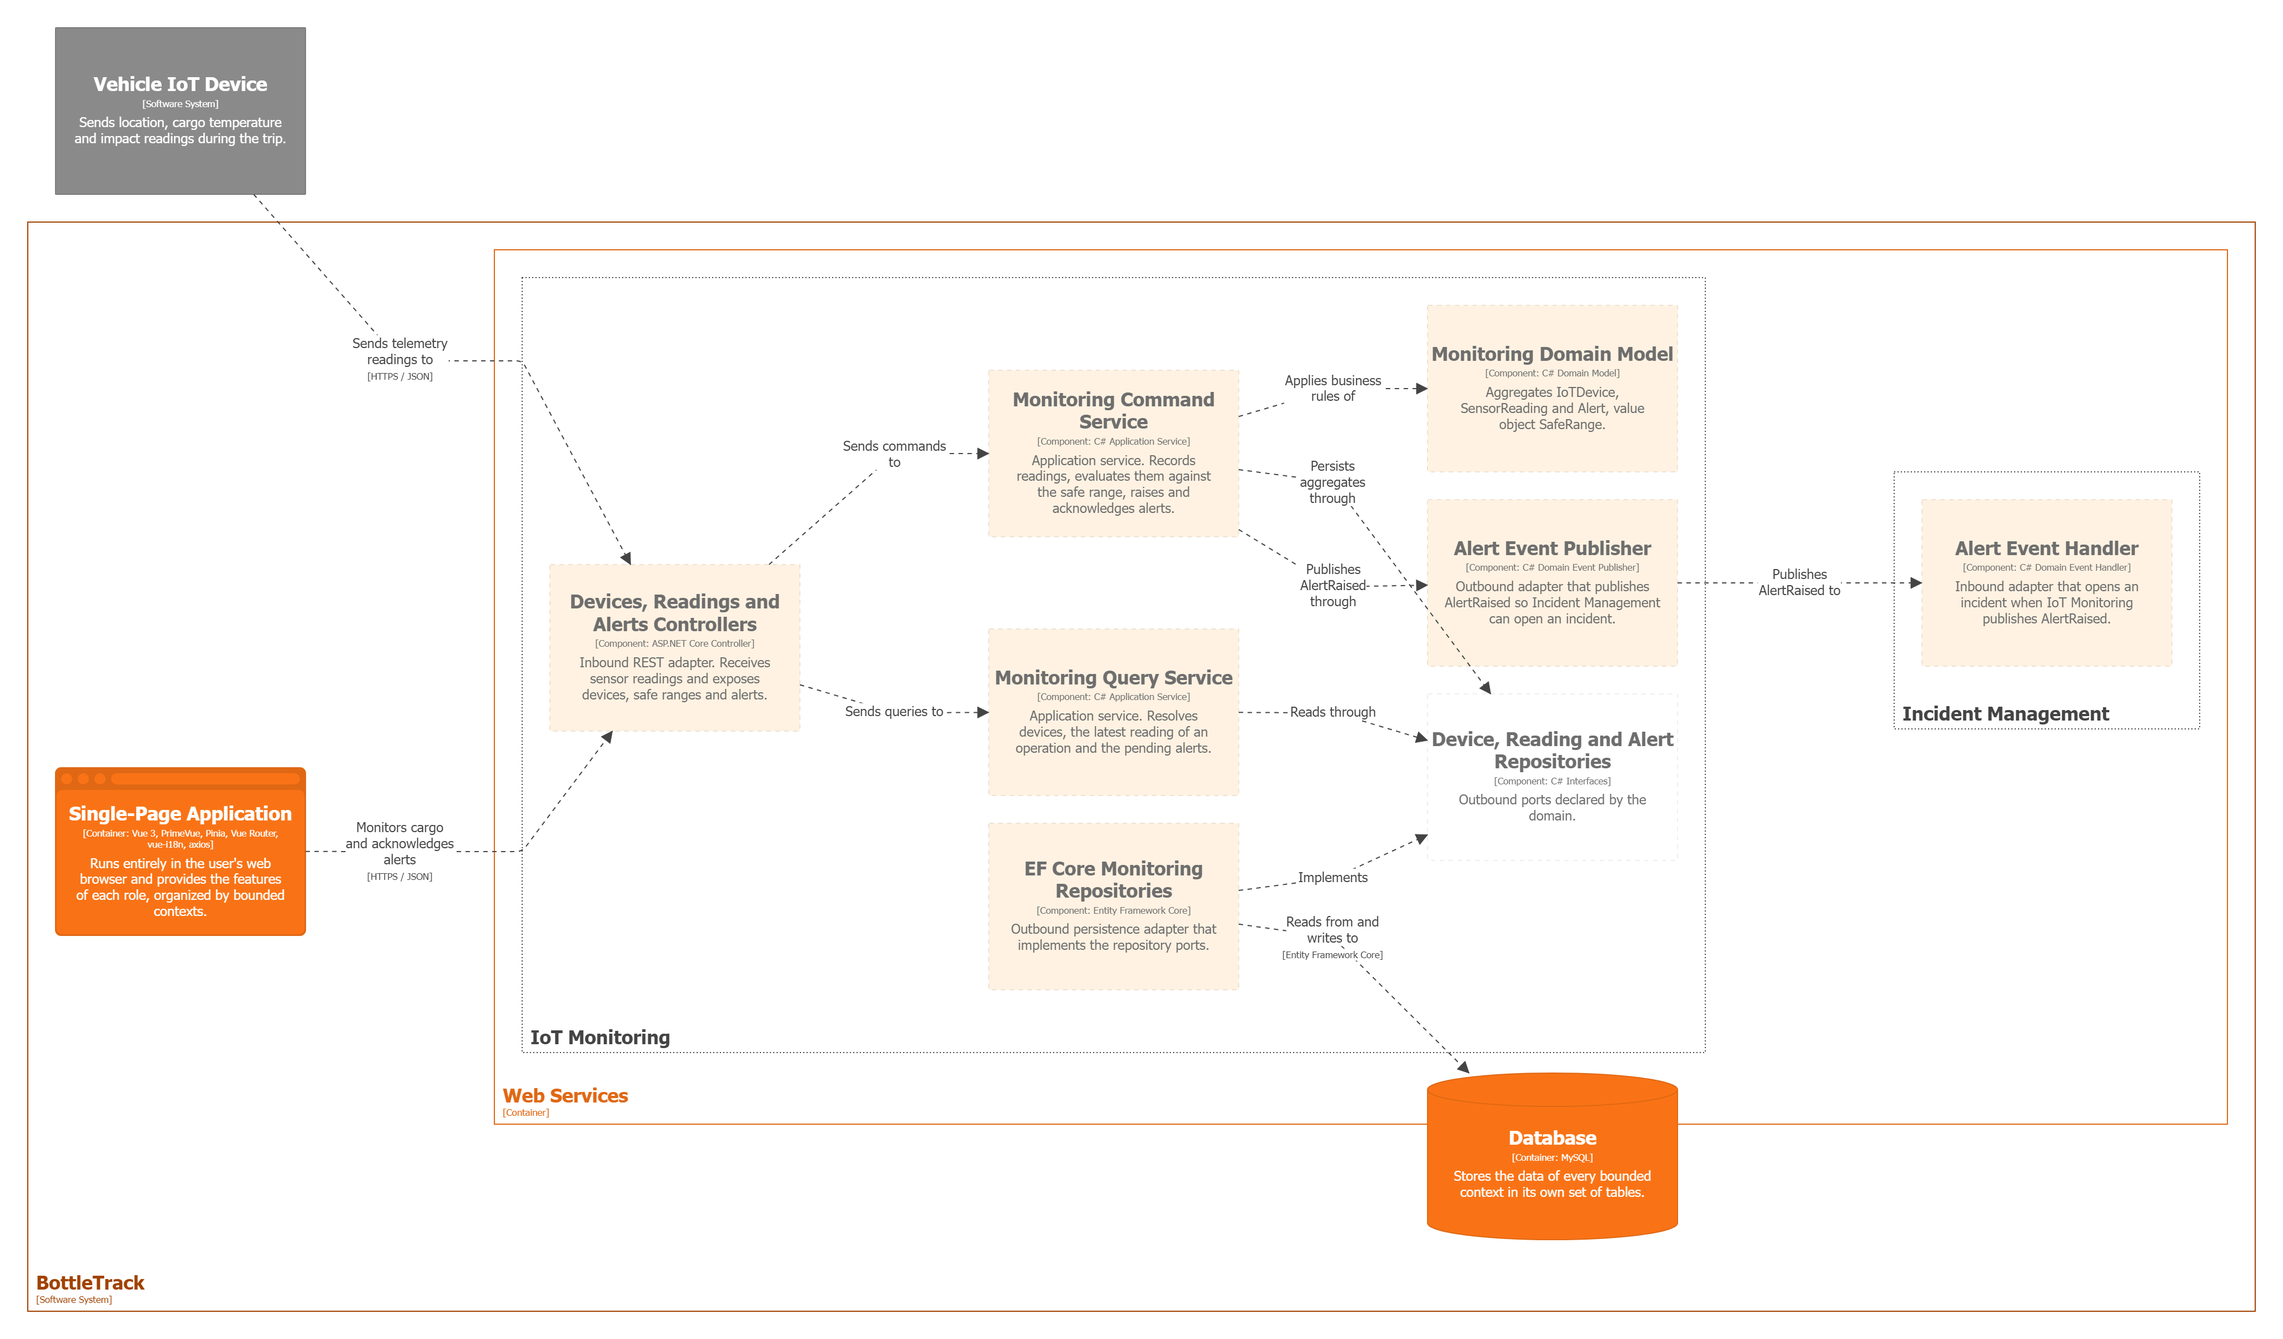
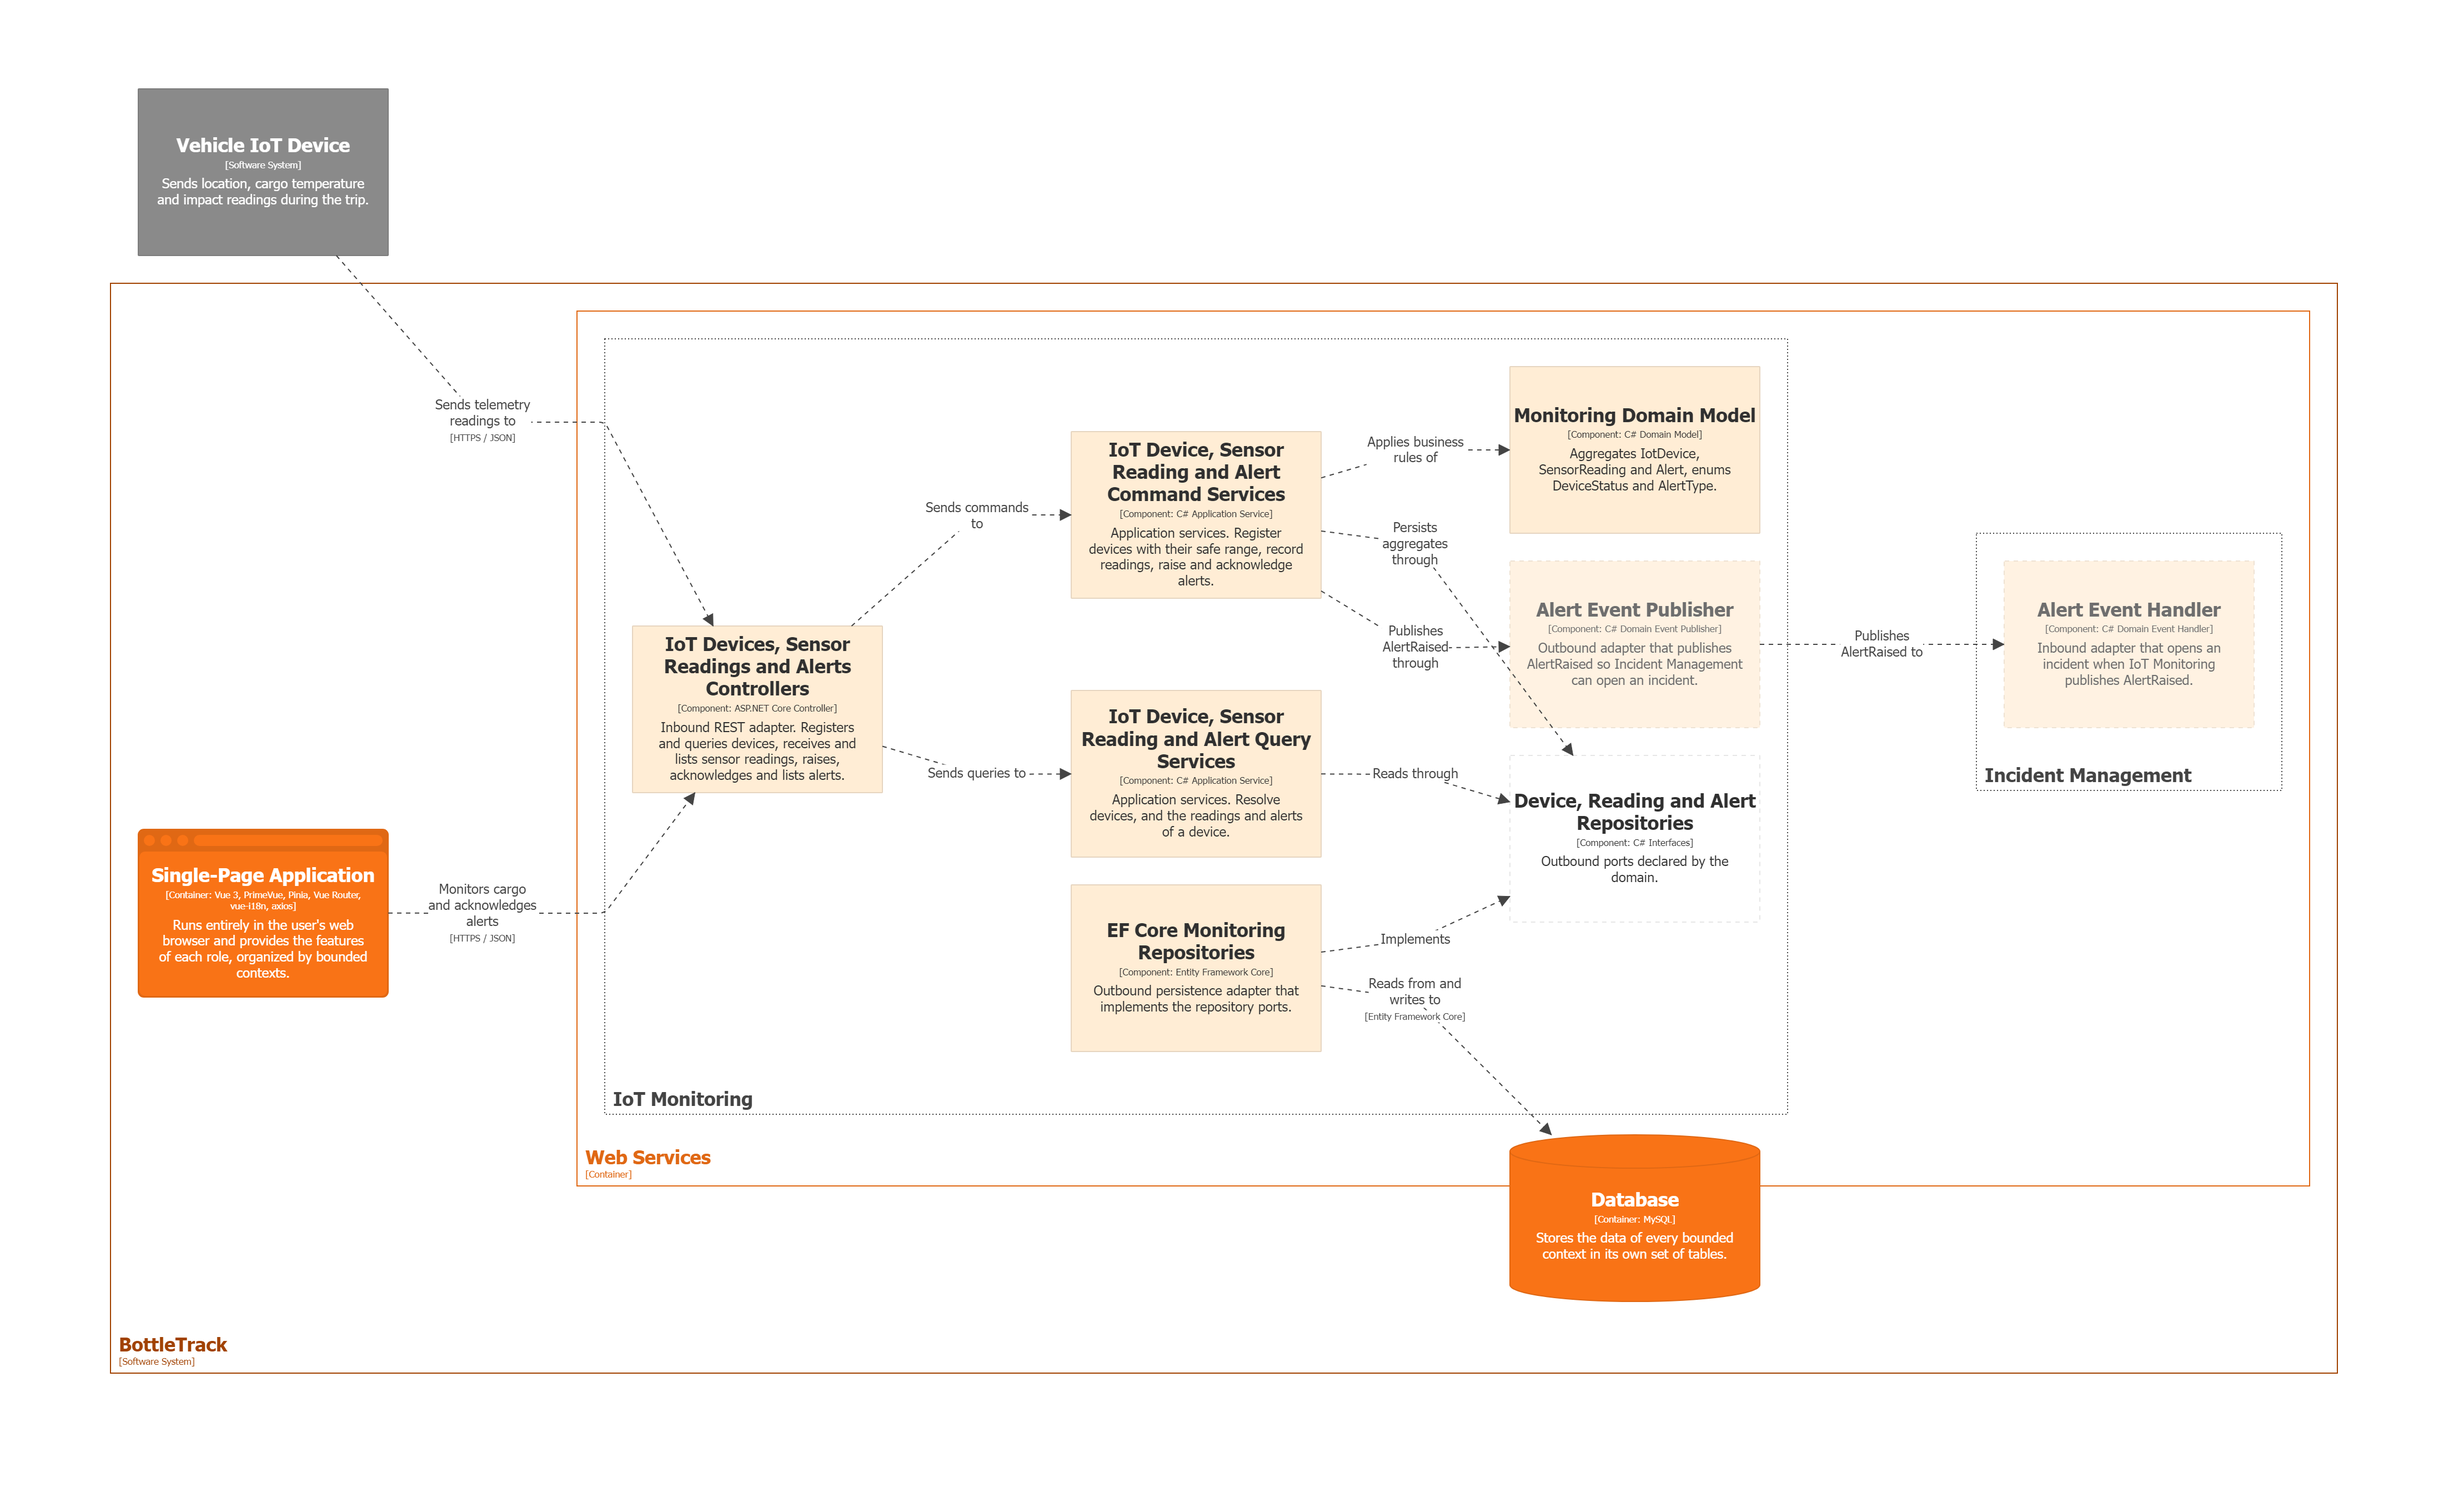
fix(report): align iot monitoring diagrams with the web services

diff --git a/report/40-chapter-4-product-design.md b/report/40-chapter-4-product-design.md
@@ -760,7 +760,7 @@ Se elaboró un diagrama de componentes por bounded context. Los componentes dibu
 
 <img src="assets/DD-SoftwareArchitecture/componentOR_D.png" alt="Diagrama de componentes de Operations and Routes" width="800">
 
-**IoT Monitoring.** Recibe las lecturas de los dispositivos, las evalúa contra el rango seguro y levanta alertas. Publica el evento `AlertRaised` para que Incident Management actúe.
+**IoT Monitoring.** Registra los dispositivos con su rango seguro de temperatura y su umbral de impacto, recibe sus lecturas y gestiona las alertas. Implementado: registro y consulta de dispositivos, registro y consulta de lecturas por dispositivo, y registro, consulta y atención de alertas. La evaluación automática de cada lectura contra el rango seguro y la publicación del evento `AlertRaised` hacia Incident Management están planificadas.
 
 <img src="assets/DD-SoftwareArchitecture/componentIoTM_D.png" alt="Diagrama de componentes de IoT Monitoring" width="800">
 
@@ -840,11 +840,11 @@ Planifica y ejecuta las operaciones de transporte: sus recursos, su ruta de entr
 
 Vigila la carga durante la operación con las lecturas de temperatura y golpes de los dispositivos IoT, y genera alertas cuando se sale del rango seguro.
 
-*Frontend.* `IoTDevice` guarda su rango seguro de temperatura y su umbral de impacto, y con `isTemperatureSafe`, `isImpactSafe` y `evaluate` decide qué tipos de alerta de `ALERT_TYPES` corresponden a una `SensorReading` (como máximo dos, por eso la multiplicidad `0..2`). `Alert` registra la alerta y si ya fue atendida (`isAcknowledged`). `SafeRange` valida los límites que el usuario configura para un dispositivo. `MonitoredOperation` es una vista de lectura que agrupa una operación con su dispositivo (`0..1`) y su última lectura (`0..1`), e indica si la carga está segura o si el dispositivo está sin conexión. `MonitoringAssembler` crea estas clases y `MonitoringApi` accede al API con seis `BaseEndpoint`.
+*Frontend.* `IoTDevice` guarda su rango seguro de temperatura y su umbral de impacto, y con `isTemperatureSafe`, `isImpactSafe` y `evaluate` decide qué tipos de alerta de `ALERT_TYPES` corresponden a una `SensorReading` (como máximo dos, por eso la multiplicidad `0..2`). `Alert` registra la alerta y si ya fue atendida (`isAcknowledged`). `SafeRange` valida los límites que el usuario configura para un dispositivo. `MonitoredOperation` es una vista de lectura que agrupa una operación con su dispositivo (`0..1`) y su última lectura (`0..1`), e indica si la carga está segura o si el dispositivo está sin conexión. `MonitoringAssembler` crea estas clases y `MonitoringApi` accede al API con dos `BaseEndpoint`, uno para vehículos y otro para dispositivos.
 
 <img src="assets/Software-Object-Oriented-Design/frontend-class-iot-monitoring.png" alt="Diagrama de clases de IoT Monitoring en el frontend" width="800">
 
-*Backend.* `IoTDevice` es la raíz del agregado: se instala en un vehículo (`InstallOnVehicle`), se configura con un `SafeRange` (`ConfigureSafeRange`), registra muchas `SensorReading` y levanta muchas `Alert` cuando `Evaluate` detecta una lectura fuera de rango o un golpe fuerte. `Alert` es otra raíz de agregado, con tipo `AlertType` (temperatura fuera de rango, impacto detectado o dispositivo sin conexión), y se atiende con `Acknowledge`. `IIoTDeviceRepository` busca el dispositivo de un vehículo e `IAlertRepository` lista las alertas de las operaciones.
+*Backend.* El contexto tiene tres raíces de agregado, porque las lecturas y las alertas se registran con alta frecuencia y no deben bloquear al dispositivo. `IotDevice` se registra (`Register`) instalado en un vehículo, con su rango seguro de temperatura (`SafeTemperatureMin` y `SafeTemperatureMax`) y su umbral de impacto, y cambia de estado con `GoOffline` y `Retire`. `SensorReading` es inmutable: se crea con `Record` y guarda la ubicación, la temperatura y la fuerza de impacto de un momento del viaje. `Alert` se levanta con `Raise`, con un tipo de `AlertType` (temperatura fuera de rango, impacto detectado o dispositivo sin conexión), y se atiende con `Acknowledge`. `IIotDeviceRepository` busca un dispositivo por su número de serie, para evitar duplicados, e `ISensorReadingRepository` e `IAlertRepository` listan las lecturas y las alertas de un dispositivo.
 
 <img src="assets/Software-Object-Oriented-Design/backend-class-iot-monitoring.png" alt="Diagrama de clases de IoT Monitoring en el backend" width="800">
 
